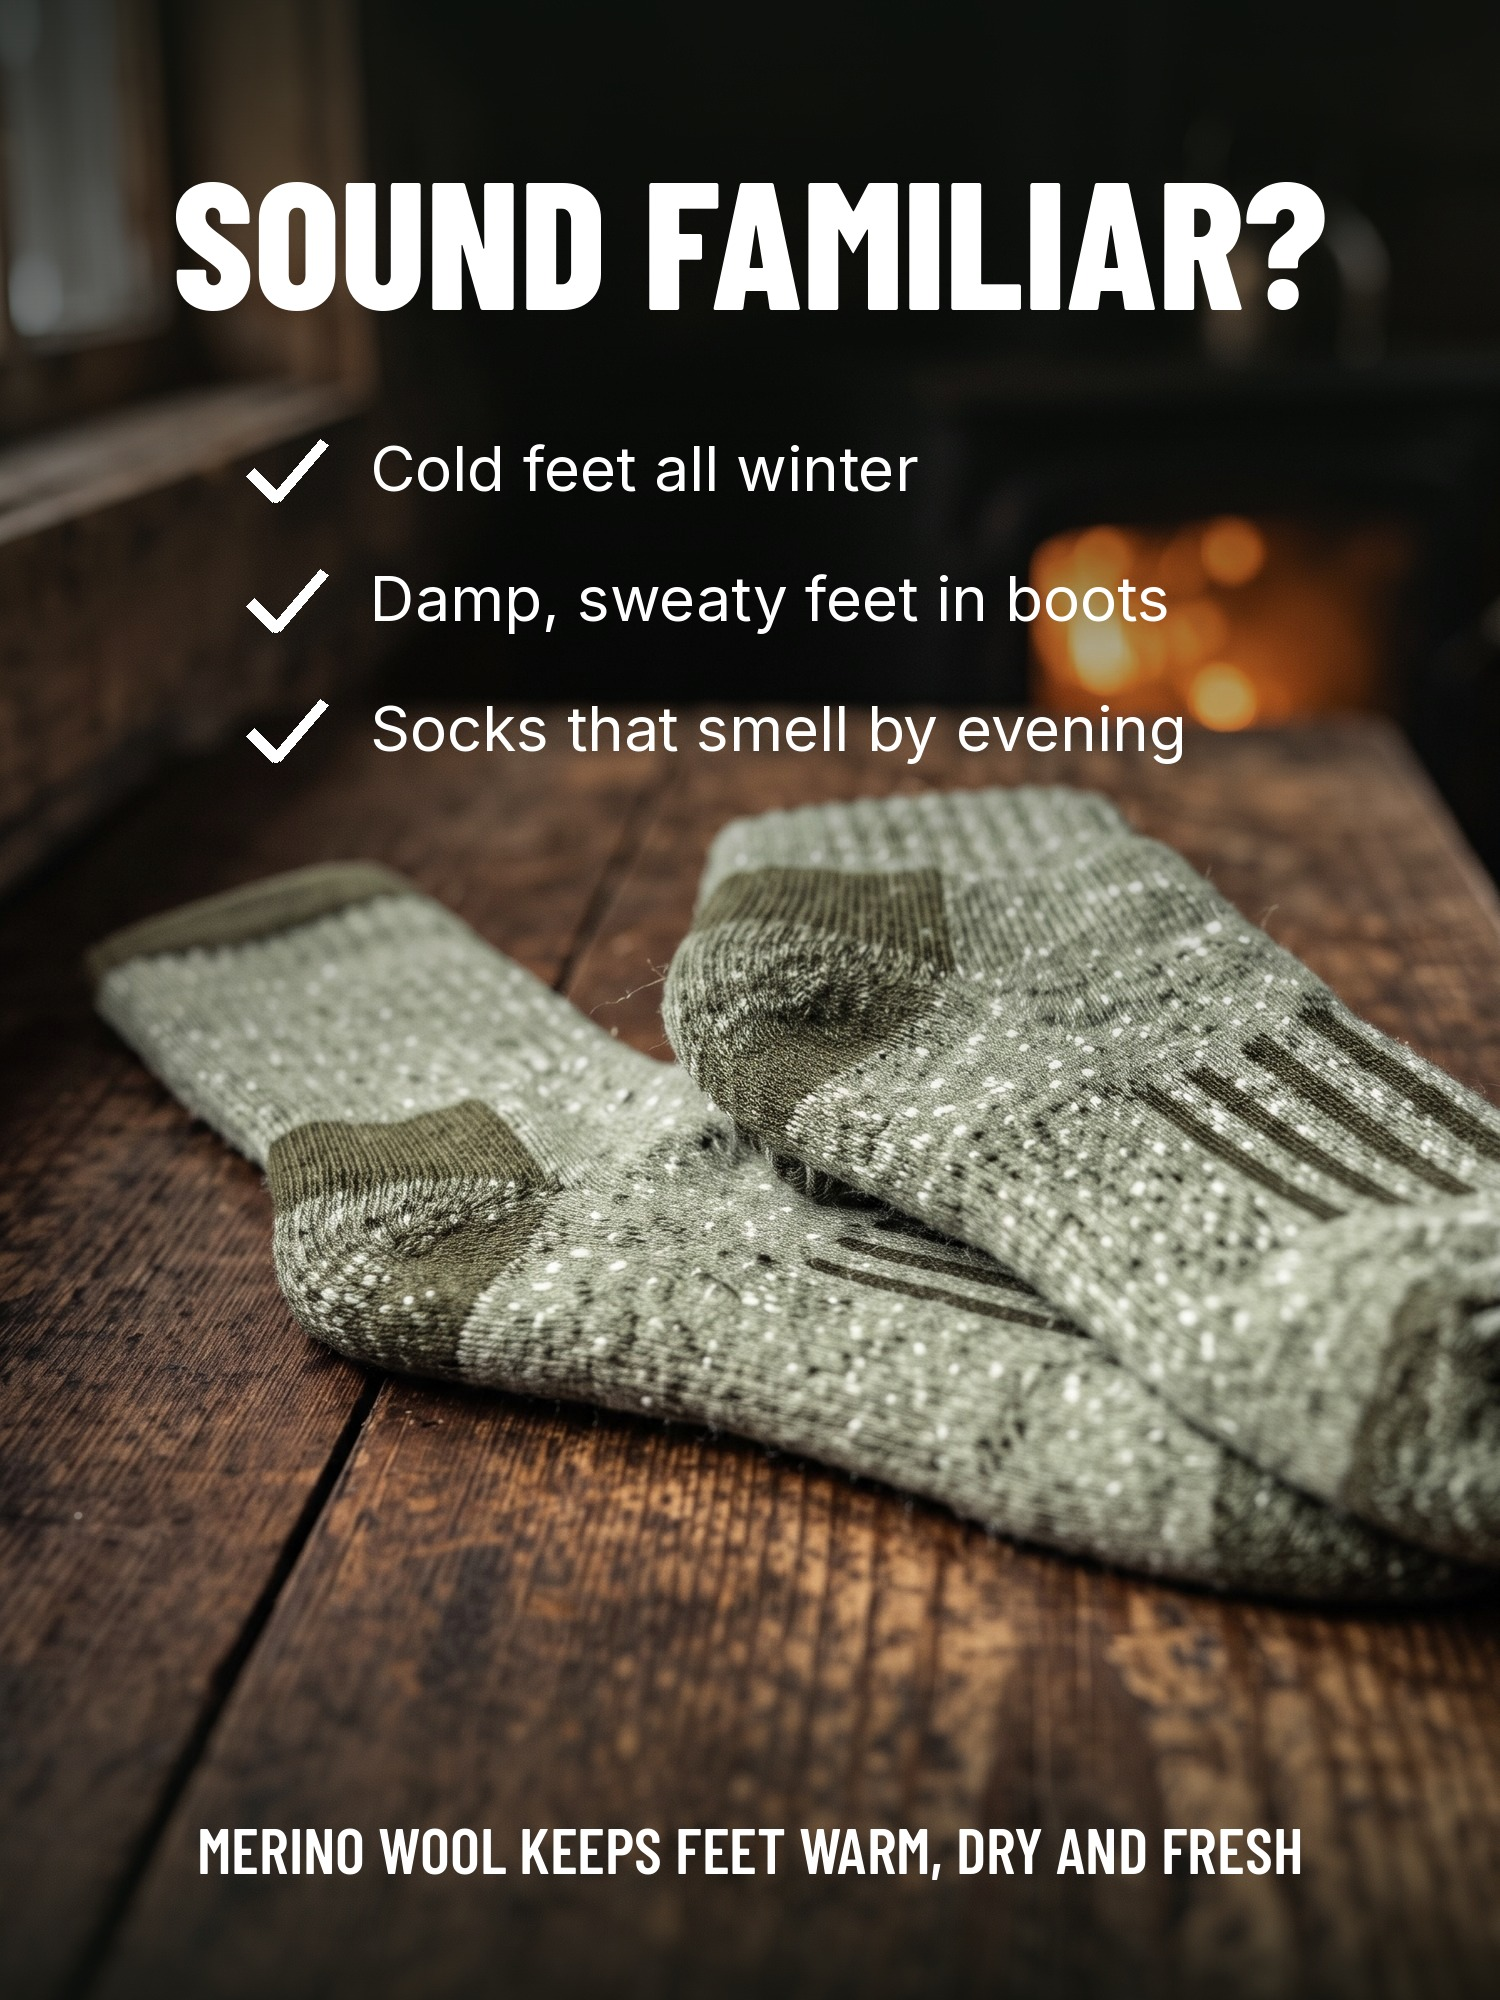
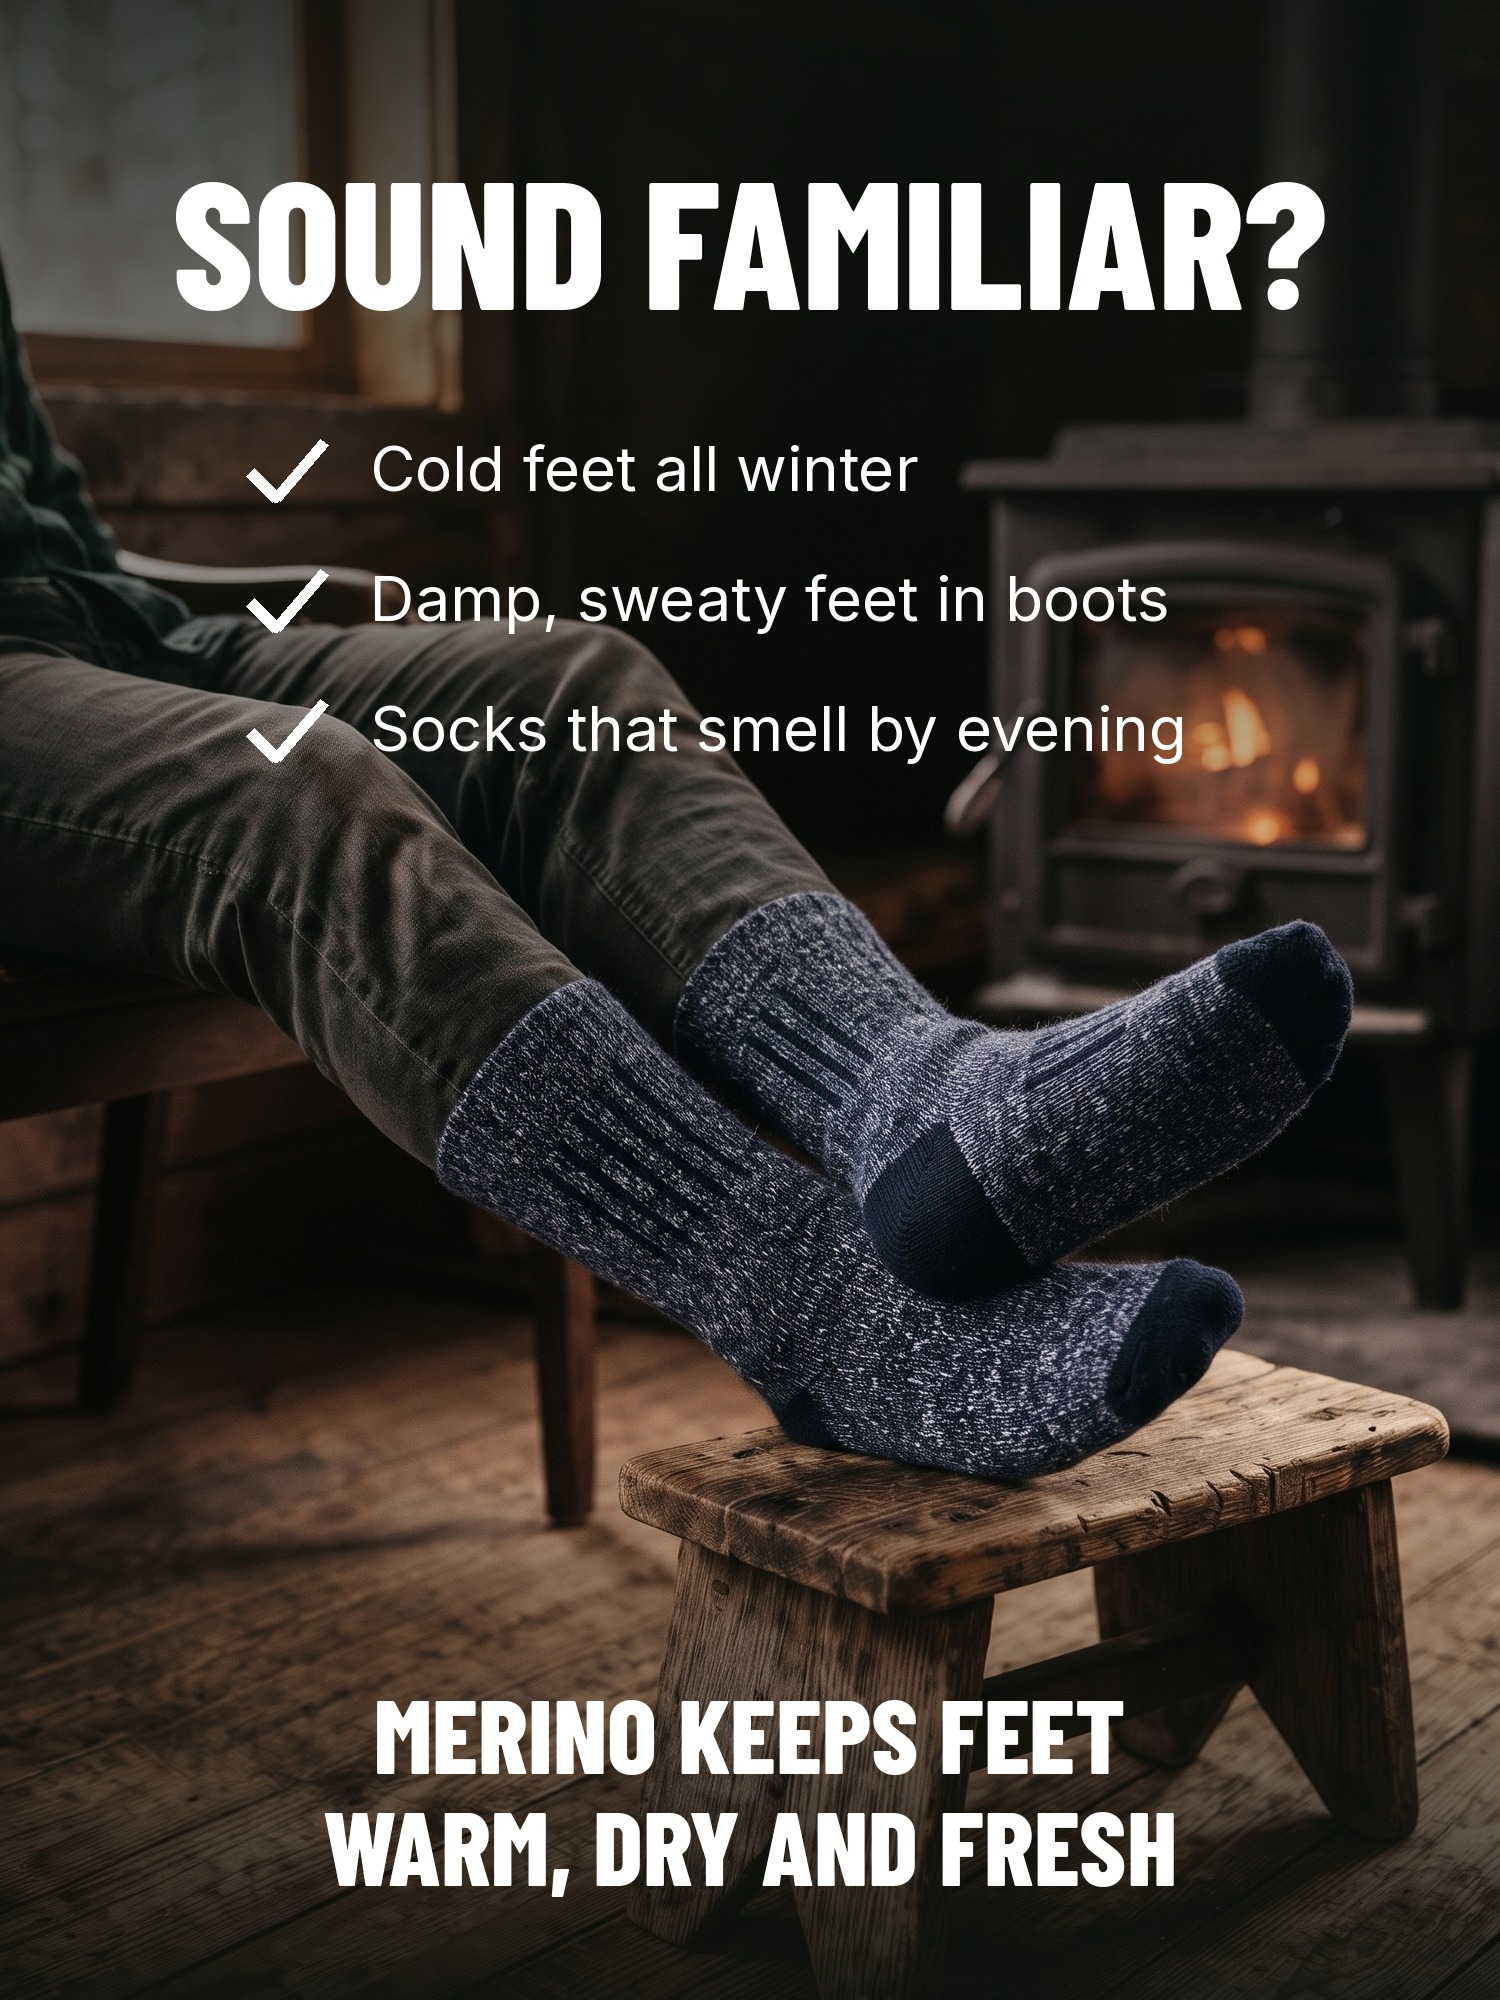
socks carousel: checklist on real on-foot photo, bigger bottom line
Claude-Session: https://claude.ai/code/session_017Ww7bRLYZM3uMxkStKbUri

diff --git a/socks/carousel/checklist.py b/socks/carousel/checklist.py
@@ -5,12 +5,12 @@ im = Image.open(src).convert('RGB').resize((1500,2000)); W,H=im.size
 g = Image.new('L',(1,H))
 for y in range(H):
     a = int(215*(1-y/1150)**1.1) if y<1150 else 0
-    if y > H-420: a = max(a,int(200*((y-(H-420))/420)**1.2))
+    if y > H-560: a = max(a,int(225*((y-(H-560))/560)**1.1))
     g.putpixel((0,y),a)
 im = Image.composite(Image.new('RGB',(W,H),(14,18,14)), im, g.resize((W,H)))
 d = ImageDraw.Draw(im)
 B='pins/BarlowCondensed-ExtraBold.ttf'; SB='pins/BarlowCondensed-SemiBold.ttf'; I='pins/Inter.ttf'
-f1=ImageFont.truetype(B,180); fl=ImageFont.truetype(I,62); fe=ImageFont.truetype(SB,64)
+f1=ImageFont.truetype(B,180); fl=ImageFont.truetype(I,62); fe=ImageFont.truetype(B,104)
 t='SOUND FAMILIAR?'; w=d.textlength(t,font=f1); d.text(((W-w)/2,130),t,font=f1,fill='white')
 items=['Cold feet all winter','Damp, sweaty feet in boots','Socks that smell by evening']
 y=430; x=250
@@ -18,6 +18,7 @@ for it in items:
     # simple white check mark, no circles
     d.line([(x,y+42),(x+26,y+68),(x+74,y+12)],fill='white',width=11,joint='curve')
     d.text((x+120,y),it,font=fl,fill='white'); y+=130
-end='MERINO WOOL KEEPS FEET WARM, DRY AND FRESH'
-w=d.textlength(end,font=fe); d.text(((W-w)/2,H-190),end,font=fe,fill='white')
+yy=H-330
+for end in ['MERINO KEEPS FEET','WARM, DRY AND FRESH']:
+    w=d.textlength(end,font=fe); d.text(((W-w)/2,yy),end,font=fe,fill='white'); yy+=112
 im.save(out,quality=92)
